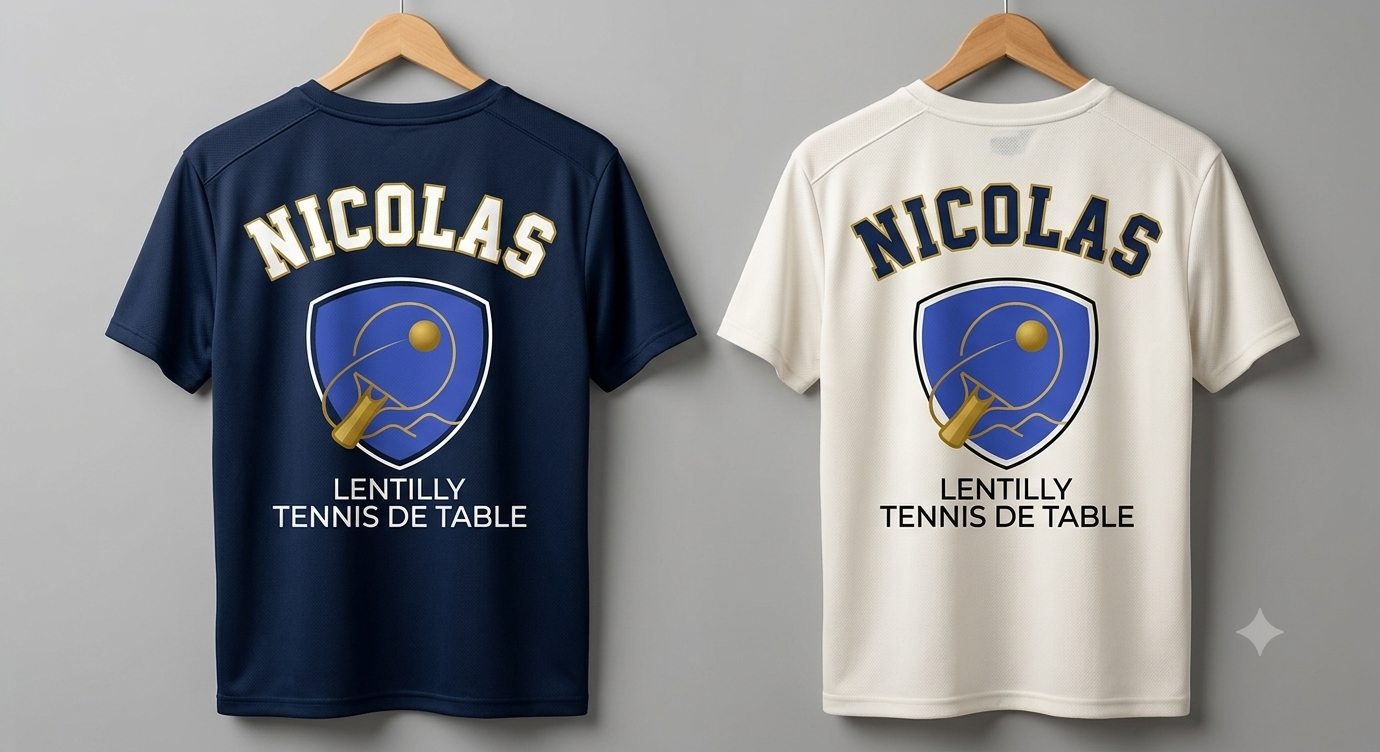
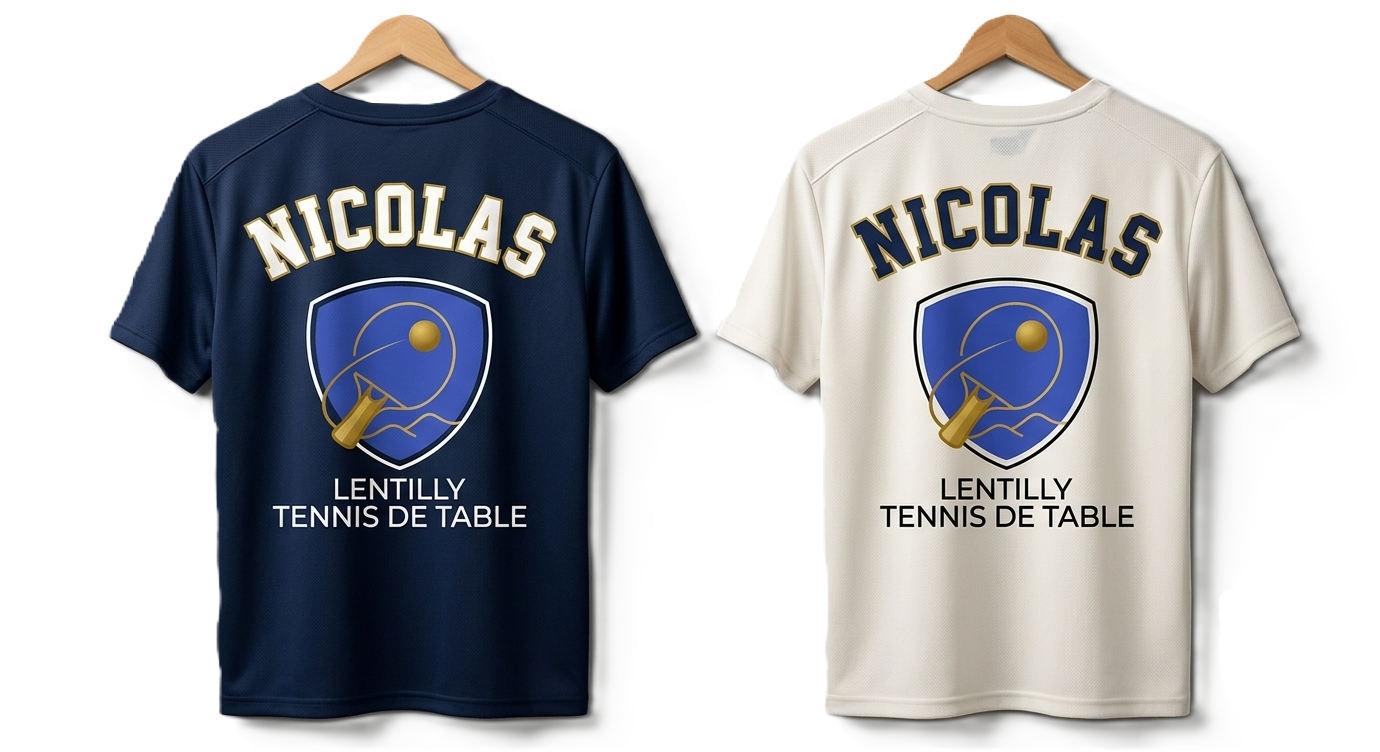
Mise à jour des fragments de page, du modèle index, de la page d'accueil, des feuilles de style et des scripts de build

diff --git a/index.html b/index.html
@@ -121,7 +121,7 @@
                                 <span class="stat-pill-icon stat-pill-icon--court" aria-hidden="true">
                                     <i data-lucide="files" class="h-3.5 w-3.5"></i>
                                 </span>
-                                4 docs à consulter
+                                5 docs à consulter
                             </span>
                             <span class="stat-pill">
                                 <span class="stat-pill-icon stat-pill-icon--ball" aria-hidden="true">
@@ -186,6 +186,10 @@
                                         <span>Statuts de l'association</span>
                                         <i data-lucide="shield" class="h-4 w-4 text-brand-red dark:text-red-300" aria-hidden="true"></i>
                                     </a>
+                                    <a href="#doc-maillot" class="hero-visual__doc hero-visual__doc--club doc-toc-link">
+                                        <span>Maillot du club</span>
+                                        <i data-lucide="shirt" class="h-4 w-4 text-sky-600 dark:text-sky-300" aria-hidden="true"></i>
+                                    </a>
                                 </nav>
                             </div>
                         </div>
@@ -220,6 +224,9 @@
                             <button class="filter-btn px-4 py-2 rounded-xl text-sm font-semibold transition-all duration-200 bg-white dark:bg-slate-800 border border-slate-200 dark:border-slate-600 hover:bg-slate-50 dark:hover:bg-slate-700 text-slate-700 dark:text-slate-200" data-category="juridique">
                                 Statuts & PV d'AG
                             </button>
+                            <button class="filter-btn px-4 py-2 rounded-xl text-sm font-semibold transition-all duration-200 bg-white dark:bg-slate-800 border border-slate-200 dark:border-slate-600 hover:bg-slate-50 dark:hover:bg-slate-700 text-slate-700 dark:text-slate-200" data-category="club">
+                                Vie du club
+                            </button>
                         </div>
                     </div>
                 </div>
@@ -238,7 +245,7 @@
                     </h3>
                 </div>
                 <p id="doc-count" class="text-sm font-medium text-slate-500 dark:text-slate-400">
-                    4 documents disponibles
+                    5 documents disponibles
                 </p>
             </div>
 
@@ -248,6 +255,7 @@
                 <a href="#doc-reglement-interieur" class="doc-toc-mobile__link doc-toc-link">Règlement intérieur</a>
                 <a href="#doc-pv-ag" class="doc-toc-mobile__link doc-toc-mobile__link--legal doc-toc-link">PV d'AG</a>
                 <a href="#doc-statuts" class="doc-toc-mobile__link doc-toc-mobile__link--legal doc-toc-link">Statuts</a>
+                <a href="#doc-maillot" class="doc-toc-mobile__link doc-toc-mobile__link--club doc-toc-link">Maillot</a>
             </nav>
 
             <div id="no-results" class="text-center py-12 hidden">
@@ -498,6 +506,71 @@
                             <span class="text-xs text-slate-400 dark:text-slate-500">Texte juridique constitutionnel</span>
                             <a href="fic/V12_statuts_club_LTT.html" target="_blank" rel="noopener noreferrer" class="inline-flex items-center space-x-2 px-5 py-2.5 bg-orange-600 hover:bg-orange-700 text-white rounded-xl text-sm font-semibold shadow-md shadow-orange-500/10 hover:shadow-lg hover:shadow-orange-500/20 transition-all duration-200">
                                 <span>Consulter en ligne</span>
+                                <i data-lucide="arrow-right" class="h-4 w-4"></i>
+                            </a>
+                        </div>
+                    </div>
+                </div>
+                <!-- Carte 5 : Maillot du club personnalisé -->
+                <div id="doc-maillot" class="doc-card bg-white dark:bg-slate-900 rounded-2xl border border-slate-200/80 dark:border-slate-800 shadow-sm hover:shadow-lg hover:border-sky-500/40 dark:hover:border-sky-400/40 transition-all duration-300 flex flex-col overflow-hidden group" data-category="club" data-search="maillot t-shirt tee-shirt tshirt textile tenue équipement boutique prénom personnalisé flocage marine crème écusson logo couleurs vie du club">
+                    <div class="h-1 bg-sky-600 dark:bg-sky-500"></div>
+                    <div class="p-8 flex-grow flex flex-col justify-between">
+                        <div>
+                            <div class="flex items-start justify-between mb-6">
+                                <!-- Pastille bleu ciel : couleur dédiée à la vie du club -->
+                                <div class="p-4 bg-sky-50 dark:bg-sky-950/40 text-sky-600 dark:text-sky-400 rounded-2xl group-hover:scale-105 transition-transform duration-300">
+                                    <i data-lucide="shirt" class="h-7 w-7"></i>
+                                </div>
+                                <div class="flex flex-col items-end space-y-1">
+                                    <span class="px-2.5 py-1 rounded-full text-xs font-bold uppercase tracking-wider bg-sky-100 dark:bg-sky-950/80 text-sky-800 dark:text-sky-300 border border-sky-200/50 dark:border-sky-900/50">
+                                        Vie du club
+                                    </span>
+                                    <span class="text-[10px] text-slate-400 dark:text-slate-500 font-semibold uppercase tracking-wider">
+                                        Version V5
+                                    </span>
+                                </div>
+                            </div>
+
+                            <h3 class="text-2xl font-bold text-slate-900 dark:text-white group-hover:text-sky-600 dark:group-hover:text-sky-400 transition-colors duration-200 mb-3">
+                                Le Maillot du Club
+                            </h3>
+
+                            <!-- Aperçu du visuel : photo produit sur fond blanc volontaire -->
+                            <a href="pub/V5_t-shirts.png" target="_blank" rel="noopener noreferrer" class="block mb-6 rounded-xl border border-slate-200/80 dark:border-slate-700 bg-white overflow-hidden" aria-label="Agrandir le visuel des maillots du club">
+                                <img src="pub/V5_t-shirts.png" alt="Maillots du club en marine et crème, floqués au prénom du joueur avec l'écusson Lentilly Tennis de Table" data-logo-fallback="hide" loading="lazy" decoding="async" class="w-full h-auto group-hover:scale-[1.02] transition-transform duration-300">
+                            </a>
+
+                            <p class="texte-redactionnel text-slate-600 dark:text-slate-300 mb-6 leading-relaxed text-sm">
+                                Le maillot officiel du club, décliné en deux coloris — marine et crème. Au dos : le prénom du joueur floqué en arrondi, l'écusson LTT et la mention <strong class="font-semibold text-slate-900 dark:text-white">Lentilly Tennis de Table</strong>. De quoi arriver à la table aux couleurs du club, à l'entraînement comme en compétition.
+                            </p>
+
+                            <div class="key-content space-y-2 mb-8">
+                                <h4 class="text-xs font-bold uppercase tracking-wider text-slate-400 dark:text-slate-500">Contenu clé :</h4>
+                                <ul class="grid grid-cols-2 gap-2 text-xs text-slate-600 dark:text-slate-400">
+                                    <li class="flex items-center space-x-2">
+                                        <i data-lucide="check" class="h-3.5 w-3.5 text-sky-600 dark:text-sky-400 shrink-0"></i>
+                                        <span>Coloris marine et crème</span>
+                                    </li>
+                                    <li class="flex items-center space-x-2">
+                                        <i data-lucide="check" class="h-3.5 w-3.5 text-sky-600 dark:text-sky-400 shrink-0"></i>
+                                        <span>Prénom floqué au dos</span>
+                                    </li>
+                                    <li class="flex items-center space-x-2">
+                                        <i data-lucide="check" class="h-3.5 w-3.5 text-sky-600 dark:text-sky-400 shrink-0"></i>
+                                        <span>Écusson du club</span>
+                                    </li>
+                                    <li class="flex items-center space-x-2">
+                                        <i data-lucide="check" class="h-3.5 w-3.5 text-sky-600 dark:text-sky-400 shrink-0"></i>
+                                        <span>Visuel en haute définition</span>
+                                    </li>
+                                </ul>
+                            </div>
+                        </div>
+
+                        <div class="pt-4 border-t border-slate-100 dark:border-slate-800/60 flex items-center justify-between">
+                            <span class="text-xs text-slate-400 dark:text-slate-500">Visuel indicatif — saison en cours</span>
+                            <a href="pub/V5_t-shirts.png" target="_blank" rel="noopener noreferrer" class="inline-flex items-center space-x-2 px-5 py-2.5 bg-sky-600 hover:bg-sky-700 text-white rounded-xl text-sm font-semibold shadow-md shadow-sky-500/10 hover:shadow-lg hover:shadow-sky-500/20 transition-all duration-200">
+                                <span>Voir le visuel</span>
                                 <i data-lucide="arrow-right" class="h-4 w-4"></i>
                             </a>
                         </div>

diff --git a/partials/doc-card-maillot.html b/partials/doc-card-maillot.html
@@ -1,0 +1,65 @@
+                <!-- Carte 5 : Maillot du club personnalisé -->
+                <div id="doc-maillot" class="doc-card bg-white dark:bg-slate-900 rounded-2xl border border-slate-200/80 dark:border-slate-800 shadow-sm hover:shadow-lg hover:border-sky-500/40 dark:hover:border-sky-400/40 transition-all duration-300 flex flex-col overflow-hidden group" data-category="club" data-search="maillot t-shirt tee-shirt tshirt textile tenue équipement boutique prénom personnalisé flocage marine crème écusson logo couleurs vie du club">
+                    <div class="h-1 bg-sky-600 dark:bg-sky-500"></div>
+                    <div class="p-8 flex-grow flex flex-col justify-between">
+                        <div>
+                            <div class="flex items-start justify-between mb-6">
+                                <!-- Pastille bleu ciel : couleur dédiée à la vie du club -->
+                                <div class="p-4 bg-sky-50 dark:bg-sky-950/40 text-sky-600 dark:text-sky-400 rounded-2xl group-hover:scale-105 transition-transform duration-300">
+                                    <i data-lucide="shirt" class="h-7 w-7"></i>
+                                </div>
+                                <div class="flex flex-col items-end space-y-1">
+                                    <span class="px-2.5 py-1 rounded-full text-xs font-bold uppercase tracking-wider bg-sky-100 dark:bg-sky-950/80 text-sky-800 dark:text-sky-300 border border-sky-200/50 dark:border-sky-900/50">
+                                        Vie du club
+                                    </span>
+                                    <span class="text-[10px] text-slate-400 dark:text-slate-500 font-semibold uppercase tracking-wider">
+                                        Version V5
+                                    </span>
+                                </div>
+                            </div>
+
+                            <h3 class="text-2xl font-bold text-slate-900 dark:text-white group-hover:text-sky-600 dark:group-hover:text-sky-400 transition-colors duration-200 mb-3">
+                                Le Maillot du Club
+                            </h3>
+
+                            <!-- Aperçu du visuel : photo produit sur fond blanc volontaire -->
+                            <a href="pub/V5_t-shirts.png" target="_blank" rel="noopener noreferrer" class="block mb-6 rounded-xl border border-slate-200/80 dark:border-slate-700 bg-white overflow-hidden" aria-label="Agrandir le visuel des maillots du club">
+                                <img src="pub/V5_t-shirts.png" alt="Maillots du club en marine et crème, floqués au prénom du joueur avec l'écusson Lentilly Tennis de Table" data-logo-fallback="hide" loading="lazy" decoding="async" class="w-full h-auto group-hover:scale-[1.02] transition-transform duration-300">
+                            </a>
+
+                            <p class="texte-redactionnel text-slate-600 dark:text-slate-300 mb-6 leading-relaxed text-sm">
+                                Le maillot officiel du club, décliné en deux coloris — marine et crème. Au dos : le prénom du joueur floqué en arrondi, l'écusson LTT et la mention <strong class="font-semibold text-slate-900 dark:text-white">Lentilly Tennis de Table</strong>. De quoi arriver à la table aux couleurs du club, à l'entraînement comme en compétition.
+                            </p>
+
+                            <div class="key-content space-y-2 mb-8">
+                                <h4 class="text-xs font-bold uppercase tracking-wider text-slate-400 dark:text-slate-500">Contenu clé :</h4>
+                                <ul class="grid grid-cols-2 gap-2 text-xs text-slate-600 dark:text-slate-400">
+                                    <li class="flex items-center space-x-2">
+                                        <i data-lucide="check" class="h-3.5 w-3.5 text-sky-600 dark:text-sky-400 shrink-0"></i>
+                                        <span>Coloris marine et crème</span>
+                                    </li>
+                                    <li class="flex items-center space-x-2">
+                                        <i data-lucide="check" class="h-3.5 w-3.5 text-sky-600 dark:text-sky-400 shrink-0"></i>
+                                        <span>Prénom floqué au dos</span>
+                                    </li>
+                                    <li class="flex items-center space-x-2">
+                                        <i data-lucide="check" class="h-3.5 w-3.5 text-sky-600 dark:text-sky-400 shrink-0"></i>
+                                        <span>Écusson du club</span>
+                                    </li>
+                                    <li class="flex items-center space-x-2">
+                                        <i data-lucide="check" class="h-3.5 w-3.5 text-sky-600 dark:text-sky-400 shrink-0"></i>
+                                        <span>Visuel en haute définition</span>
+                                    </li>
+                                </ul>
+                            </div>
+                        </div>
+
+                        <div class="pt-4 border-t border-slate-100 dark:border-slate-800/60 flex items-center justify-between">
+                            <span class="text-xs text-slate-400 dark:text-slate-500">Visuel indicatif — saison en cours</span>
+                            <a href="pub/V5_t-shirts.png" target="_blank" rel="noopener noreferrer" class="inline-flex items-center space-x-2 px-5 py-2.5 bg-sky-600 hover:bg-sky-700 text-white rounded-xl text-sm font-semibold shadow-md shadow-sky-500/10 hover:shadow-lg hover:shadow-sky-500/20 transition-all duration-200">
+                                <span>Voir le visuel</span>
+                                <i data-lucide="arrow-right" class="h-4 w-4"></i>
+                            </a>
+                        </div>
+                    </div>
+                </div>

diff --git a/css/documents.css b/css/documents.css
@@ -49,6 +49,23 @@
     border-color: rgba(249, 115, 22, 0.3);
 }
 
+/* Variante catégorie vie du club (maillot). */
+.doc-toc-mobile__link--club {
+    color: #0369a1;
+    background: rgba(14, 165, 233, 0.1);
+    border-color: rgba(14, 165, 233, 0.25);
+}
+
+.doc-toc-mobile__link--club:hover {
+    background: rgba(14, 165, 233, 0.18);
+}
+
+.dark .doc-toc-mobile__link--club {
+    color: #7dd3fc;
+    background: rgba(14, 165, 233, 0.15);
+    border-color: rgba(14, 165, 233, 0.3);
+}
+
 .doc-card {
     position: relative;
     scroll-margin-top: 6rem;
@@ -63,6 +80,7 @@
 .doc-card:nth-child(2) { animation-delay: 0.12s; }
 .doc-card:nth-child(3) { animation-delay: 0.19s; }
 .doc-card:nth-child(4) { animation-delay: 0.26s; }
+.doc-card:nth-child(5) { animation-delay: 0.33s; }
 
 .doc-card:hover {
     transform: translateY(-3px);
@@ -112,11 +130,15 @@
 }
 
 .doc-card a[href*="fic/"] i,
-.doc-card a[href*="fic/"] svg {
+.doc-card a[href*="fic/"] svg,
+.doc-card a[href*="pub/"] i,
+.doc-card a[href*="pub/"] svg {
     transition: transform 0.2s ease;
 }
 
 .doc-card a[href*="fic/"]:hover i,
-.doc-card a[href*="fic/"]:hover svg {
+.doc-card a[href*="fic/"]:hover svg,
+.doc-card a[href*="pub/"]:hover i,
+.doc-card a[href*="pub/"]:hover svg {
     transform: translateX(3px);
 }

diff --git a/css/hero-visual.css b/css/hero-visual.css
@@ -127,7 +127,7 @@
     outline-offset: 2px;
 }
 
-/* Deux variantes de catégorie ; l'icône porte la couleur du document. */
+/* Trois variantes de catégorie ; l'icône porte la couleur du document. */
 .hero-visual__doc--admin {
     background: rgba(16, 185, 129, 0.1);
     color: #047857;
@@ -140,6 +140,12 @@
     border-color: rgba(249, 115, 22, 0.22);
 }
 
+.hero-visual__doc--club {
+    background: rgba(14, 165, 233, 0.1);
+    color: #0369a1;
+    border-color: rgba(14, 165, 233, 0.22);
+}
+
 .dark .hero-visual__doc--admin {
     color: #6ee7b7;
     background: rgba(16, 185, 129, 0.16);
@@ -148,4 +154,9 @@
 .dark .hero-visual__doc--legal {
     color: #fdba74;
     background: rgba(249, 115, 22, 0.16);
+}
+
+.dark .hero-visual__doc--club {
+    color: #7dd3fc;
+    background: rgba(14, 165, 233, 0.16);
 }

diff --git a/partials/hero.html b/partials/hero.html
@@ -33,7 +33,7 @@
                                 <span class="stat-pill-icon stat-pill-icon--court" aria-hidden="true">
                                     <i data-lucide="files" class="h-3.5 w-3.5"></i>
                                 </span>
-                                4 docs à consulter
+                                5 docs à consulter
                             </span>
                             <span class="stat-pill">
                                 <span class="stat-pill-icon stat-pill-icon--ball" aria-hidden="true">
@@ -98,6 +98,10 @@
                                         <span>Statuts de l'association</span>
                                         <i data-lucide="shield" class="h-4 w-4 text-brand-red dark:text-red-300" aria-hidden="true"></i>
                                     </a>
+                                    <a href="#doc-maillot" class="hero-visual__doc hero-visual__doc--club doc-toc-link">
+                                        <span>Maillot du club</span>
+                                        <i data-lucide="shirt" class="h-4 w-4 text-sky-600 dark:text-sky-300" aria-hidden="true"></i>
+                                    </a>
                                 </nav>
                             </div>
                         </div>
@@ -131,6 +135,9 @@
                             </button>
                             <button class="filter-btn px-4 py-2 rounded-xl text-sm font-semibold transition-all duration-200 bg-white dark:bg-slate-800 border border-slate-200 dark:border-slate-600 hover:bg-slate-50 dark:hover:bg-slate-700 text-slate-700 dark:text-slate-200" data-category="juridique">
                                 Statuts & PV d'AG
+                            </button>
+                            <button class="filter-btn px-4 py-2 rounded-xl text-sm font-semibold transition-all duration-200 bg-white dark:bg-slate-800 border border-slate-200 dark:border-slate-600 hover:bg-slate-50 dark:hover:bg-slate-700 text-slate-700 dark:text-slate-200" data-category="club">
+                                Vie du club
                             </button>
                         </div>
                     </div>

diff --git a/partials/documents-header.html b/partials/documents-header.html
@@ -10,7 +10,7 @@
                     </h3>
                 </div>
                 <p id="doc-count" class="text-sm font-medium text-slate-500 dark:text-slate-400">
-                    4 documents disponibles
+                    5 documents disponibles
                 </p>
             </div>
 
@@ -20,6 +20,7 @@
                 <a href="#doc-reglement-interieur" class="doc-toc-mobile__link doc-toc-link">Règlement intérieur</a>
                 <a href="#doc-pv-ag" class="doc-toc-mobile__link doc-toc-mobile__link--legal doc-toc-link">PV d'AG</a>
                 <a href="#doc-statuts" class="doc-toc-mobile__link doc-toc-mobile__link--legal doc-toc-link">Statuts</a>
+                <a href="#doc-maillot" class="doc-toc-mobile__link doc-toc-mobile__link--club doc-toc-link">Maillot</a>
             </nav>
 
             <div id="no-results" class="text-center py-12 hidden">

diff --git a/index.template.html b/index.template.html
@@ -23,6 +23,7 @@
 <!-- @partial partials/doc-card-reglement.html -->
 <!-- @partial partials/doc-card-pv.html -->
 <!-- @partial partials/doc-card-statuts.html -->
+<!-- @partial partials/doc-card-maillot.html -->
 
             </div>
         </section>

diff --git a/tests/test_build_dist.py b/tests/test_build_dist.py
@@ -1,0 +1,59 @@
+"""Tests de non-régression du script d'assemblage build_dist.py.
+
+Garantit notamment que le dossier pub/ (visuels du club, ex. maillots)
+est bien publié dans dist/, et que les exclusions restent appliquées.
+"""
+
+from __future__ import annotations
+
+from pathlib import Path
+
+import pytest
+
+import build_dist
+
+
[email redacted]()
+def site_minimal(tmp_path: Path, monkeypatch: pytest.MonkeyPatch) -> Path:
+    """Construit une arborescence minimale du site dans un dossier temporaire."""
+    (tmp_path / "index.html").write_text("<html></html>", encoding="utf-8")
+
+    pub = tmp_path / "pub"
+    pub.mkdir()
+    (pub / "V5_t-shirts.png").write_bytes(b"png factice")
+
+    css = tmp_path / "css"
+    css.mkdir()
+    (css / "styles.css").write_text("body {}", encoding="utf-8")
+    (css / "tailwind-input.css").write_text("@tailwind;", encoding="utf-8")
+
+    dist = tmp_path / "dist"
+    monkeypatch.setattr(build_dist, "ROOT_DIR", tmp_path)
+    monkeypatch.setattr(build_dist, "DIST_DIR", dist)
+    return dist
+
+
+def test_preparer_dossier_production_publie_pub(site_minimal: Path) -> None:
+    """Le dossier pub/ et son visuel sont copiés dans dist/."""
+    build_dist.preparer_dossier_production()
+
+    assert (site_minimal / "pub" / "V5_t-shirts.png").is_file()
+
+
+def test_preparer_dossier_production_copie_les_requis(
+    site_minimal: Path,
+) -> None:
+    """Les fichiers racine requis et le CSS public sont présents dans dist/."""
+    build_dist.preparer_dossier_production()
+
+    assert (site_minimal / "index.html").is_file()
+    assert (site_minimal / "css" / "styles.css").is_file()
+
+
+def test_preparer_dossier_production_exclut_tailwind_input(
+    site_minimal: Path,
+) -> None:
+    """La source Tailwind d'entrée reste exclue de la publication."""
+    build_dist.preparer_dossier_production()
+
+    assert not (site_minimal / "css" / "tailwind-input.css").exists()

diff --git a/scripts/build_dist.py b/scripts/build_dist.py
@@ -116,6 +116,7 @@ def preparer_dossier_production() -> None:
     copier_dossier_optionnel("fonts")
     copier_dossier_optionnel("fic")
     copier_dossier_optionnel("logo")
+    copier_dossier_optionnel("pub")
 
     logger.info("Préparation du dossier 'dist/' terminée avec succès !")
 